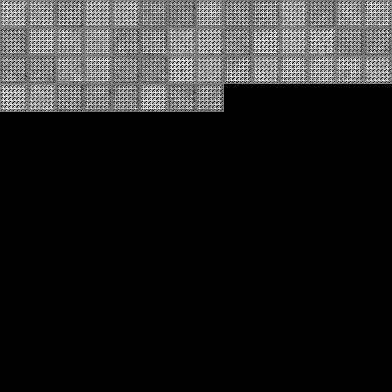
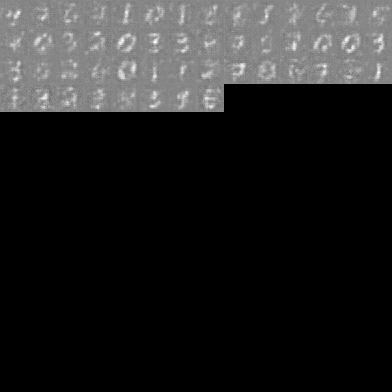
Adding relevant images

Changed region(s): [[0.0, 0.0, 1.0, 0.3061]]

diff --git a/elements/dcgan14.py b/elements/dcgan14.py
@@ -152,7 +152,7 @@ class DCGAN():
 				kernel_size=[4,4], strides=[2,2], padding='SAME', activation=None,
 				kernel_initializer=self.initializer,
 				reuse=scope.reuse,name="conv_3")
-			return tf.nn.sigmoid(self.normalize(h5,flag=True))
+			return tf.nn.sigmoid(h5)
 
 	def samples_generator(self):
 		with tf.device("/gpu:0"):
